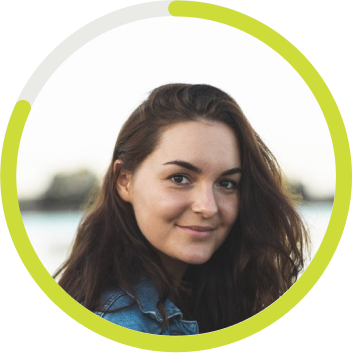
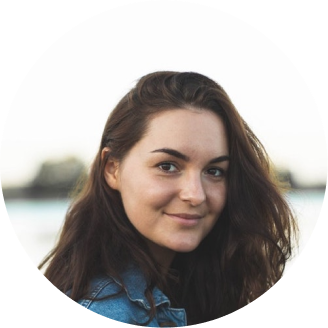
feature: dynamic displaying of the current user level progress based on the data from the DB implemented

Changed region(s): [[0.0, 0.0, 1.0, 1.0]]

diff --git a/src/pages/Profile/components/UserIdentity/UserIdentity.jsx b/src/pages/Profile/components/UserIdentity/UserIdentity.jsx
@@ -8,6 +8,7 @@ export default function UserIdentity({
   name,
   username,
   levelLabel,
+  levelProgress = 0,
 }) {
   const [src, setSrc] = useState(avatarSrc || defaultAvatar);
 
@@ -15,15 +16,42 @@ export default function UserIdentity({
     setSrc(avatarSrc || defaultAvatar);
   }, [avatarSrc]);
 
+  const size = 122;
+  const strokeWidth = 6;
+  const radius = (size - strokeWidth) / 2; 
+  const circumference = 2 * Math.PI * radius;
+  const strokeDashoffset = circumference - (levelProgress / 100) * circumference;
+
   return (
     <div className="user-identity">
       <div className="user-identity__avatar-frame">
+        <svg
+          className="progress-ring"
+          viewBox={`0 0 ${size} ${size}`}
+        >
+          <circle
+            className="progress-ring__background"
+            r={radius}
+            cx={size / 2}
+            cy={size / 2}
+          />
+          <circle
+            className="progress-ring__progress"
+            r={radius}
+            cx={size / 2}
+            cy={size / 2}
+            style={{
+              strokeDasharray: circumference,
+              strokeDashoffset: strokeDashoffset,
+            }}
+          />
+        </svg>
+
         <img
           src={src}
           alt={avatarAlt}
           className="user-identity__avatar"
           onError={(e) => {
-            console.warn('UserIdentity: avatar failed to load, falling back to default:', e.currentTarget.src);
             setSrc(defaultAvatar);
           }}
         />

diff --git a/src/pages/Profile/Profile.jsx b/src/pages/Profile/Profile.jsx
@@ -39,14 +39,15 @@ export default function Profile() {
   const [activeTabId, setActiveTabId] = useState(PROFILE_TABS[0].id);
 
   const [userIdentity, setUserIdentity] = useState({
-    avatarSrc: defaultAvatar,
-    avatarAlt: "Користувач",
-    name: "Завантаження...",
-    username: "",
-    levelLabel: "",
-    messageLabel: "Повідомлення",
-    messageIcon: <MessagesIcon />,
-  });
+      avatarSrc: defaultAvatar,
+      avatarAlt: "Користувач",
+      name: "Завантаження...",
+      username: "",
+      levelLabel: "",
+      messageLabel: "Повідомлення",
+      messageIcon: <MessagesIcon />,
+      levelProgress: 0,
+    });
 
   const [impactStats, setImpactStats] = useState({
     title: "Ваша допомога:",
@@ -83,6 +84,7 @@ export default function Profile() {
           name: profileData.userIdentity.name,
           username: profileData.userIdentity.username,
           levelLabel: profileData.userIdentity.levelLabel,
+          levelProgress: profileData.userIdentity.levelProgress,
           messageLabel: "Повідомлення",
           messageIcon: <MessagesIcon />,
         });

diff --git a/src/pages/Profile/components/UserIdentity/UserIdentity.css b/src/pages/Profile/components/UserIdentity/UserIdentity.css
@@ -5,15 +5,45 @@
 }
 
 .user-identity__avatar-frame {
+	position: relative;
 	width: 122px;
 	height: 122px;
+	display: flex;
+	align-items: center;
+	justify-content: center;
+}
+
+.progress-ring {
+	position: absolute;
+	top: 0;
+	left: 0;
+	width: 100%;
+	height: 100%;
+	transform: rotate(-90deg);
+	z-index: 1;
+}
+
+.progress-ring__background {
+	stroke: #E2E8F0;
+	stroke-width: 6;
+	fill: transparent;
+}
+
+.progress-ring__progress {
+	stroke: var(--color-hover-primary);
+	stroke-width: 6;
+	stroke-linecap: round;
+	fill: transparent;
+	transition: stroke-dashoffset 0.8s ease-in-out;
 }
 
 .user-identity__avatar {
-	width: 100%;
-	height: 100%;
-	object-fit: contain;
+	width: 104px;
+	height: 104px;
+	border-radius: 50%;
+	object-fit: cover;
 	display: block;
+	z-index: 2;
 }
 
 .user-identity__name {
@@ -47,6 +77,11 @@
 	.user-identity__avatar-frame {
 		width: 25vw;
 		height: 25vw;
+	}
+
+	.user-identity__avatar {
+		width: 85%;
+		height: 85%;
 	}
 
 	.user-identity__name {

diff --git a/src/pages/Profile/components/SidebarWrapper/SidebarWrapper.jsx b/src/pages/Profile/components/SidebarWrapper/SidebarWrapper.jsx
@@ -11,13 +11,14 @@ export default function SidebarWrapper({ className = '', userIdentity, impactSta
   return (
     <aside className={rootClassName}>
       <div className="sidebar-wrapper__section sidebar-wrapper__section--identity">
-        <UserIdentity
-          avatarSrc={userIdentity.avatarSrc}
-          avatarAlt={userIdentity.avatarAlt}
-          name={userIdentity.name}
-          username={userIdentity.username}
-          levelLabel={userIdentity.levelLabel}
-        />
+      <UserIdentity
+        avatarSrc={userIdentity?.avatarSrc}
+        avatarAlt={userIdentity?.avatarAlt}
+        name={userIdentity?.name}
+        username={userIdentity?.username}
+        levelLabel={userIdentity?.levelLabel}
+        levelProgress={userIdentity?.levelProgress}
+      />
       </div>
 
       <div className="sidebar-wrapper__section sidebar-wrapper__section--message">

diff --git a/src/pages/Profile/services/profile.js b/src/pages/Profile/services/profile.js
@@ -15,7 +15,8 @@ function mapUserIdentity(user) {
 		avatarAlt: `${user.firstName || ''} ${user.lastName || ''}`.trim() || 'Користувач',
 		name: `${user.firstName || ''} ${user.lastName || ''}`.trim() || user.username || 'Користувач',
 		username: user.username || '',
-		levelLabel: user.level ? `${user.level} level` : '',
+		levelLabel: user.level ? `${user.level} рівень` : '',
+		levelProgress: user.levelProgress || 0,
 	};
 }
 
